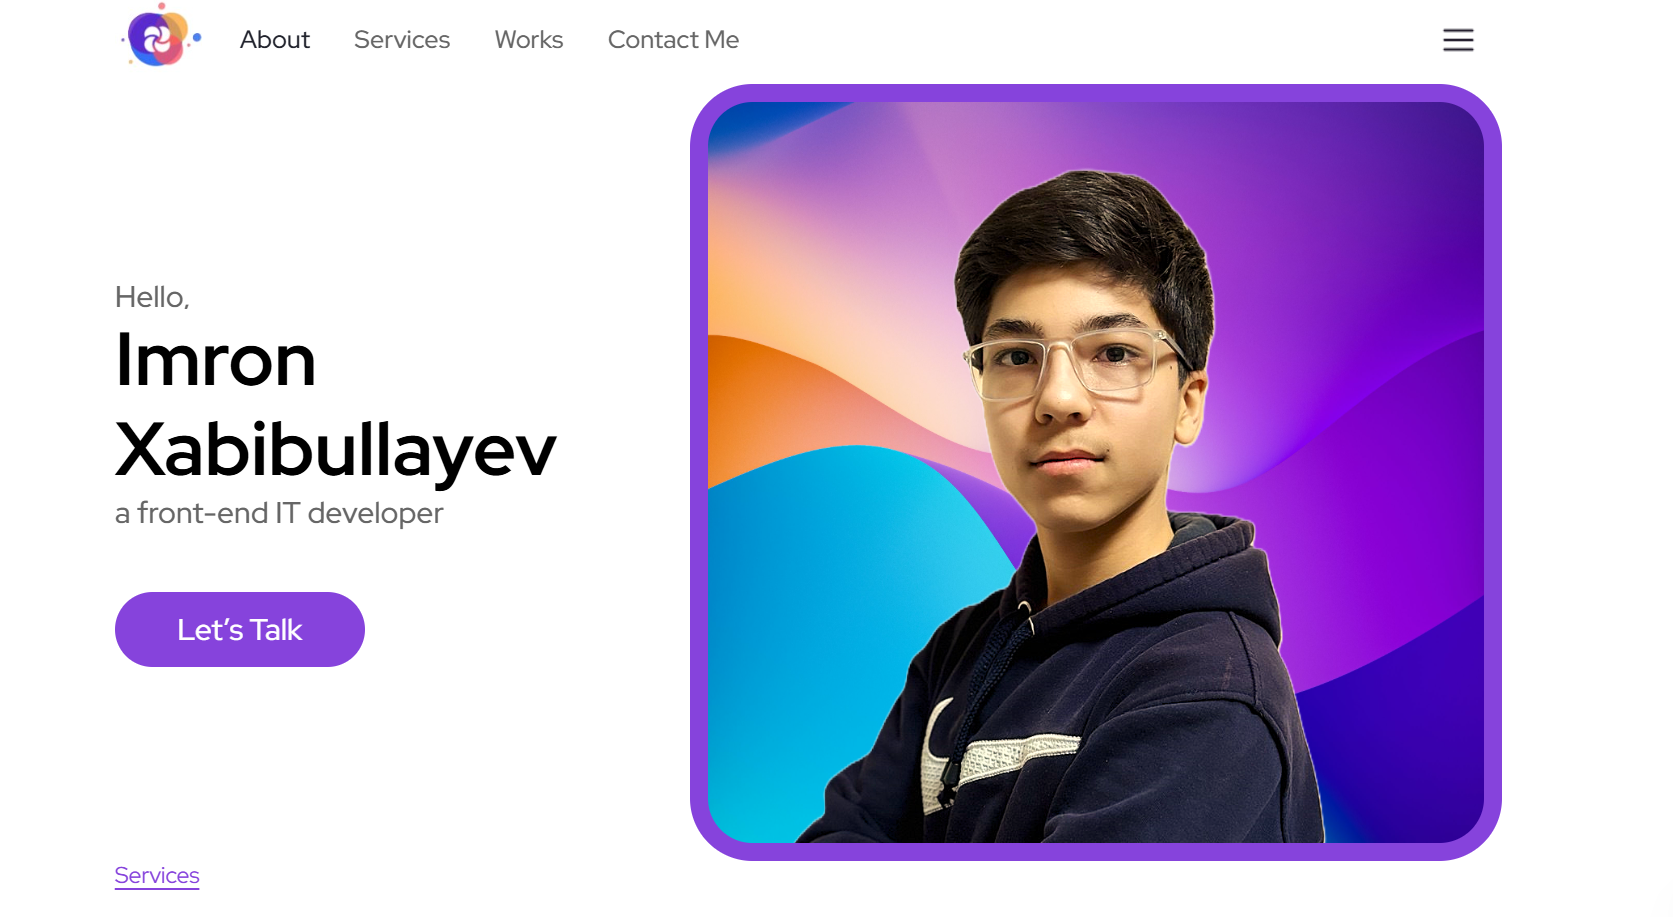
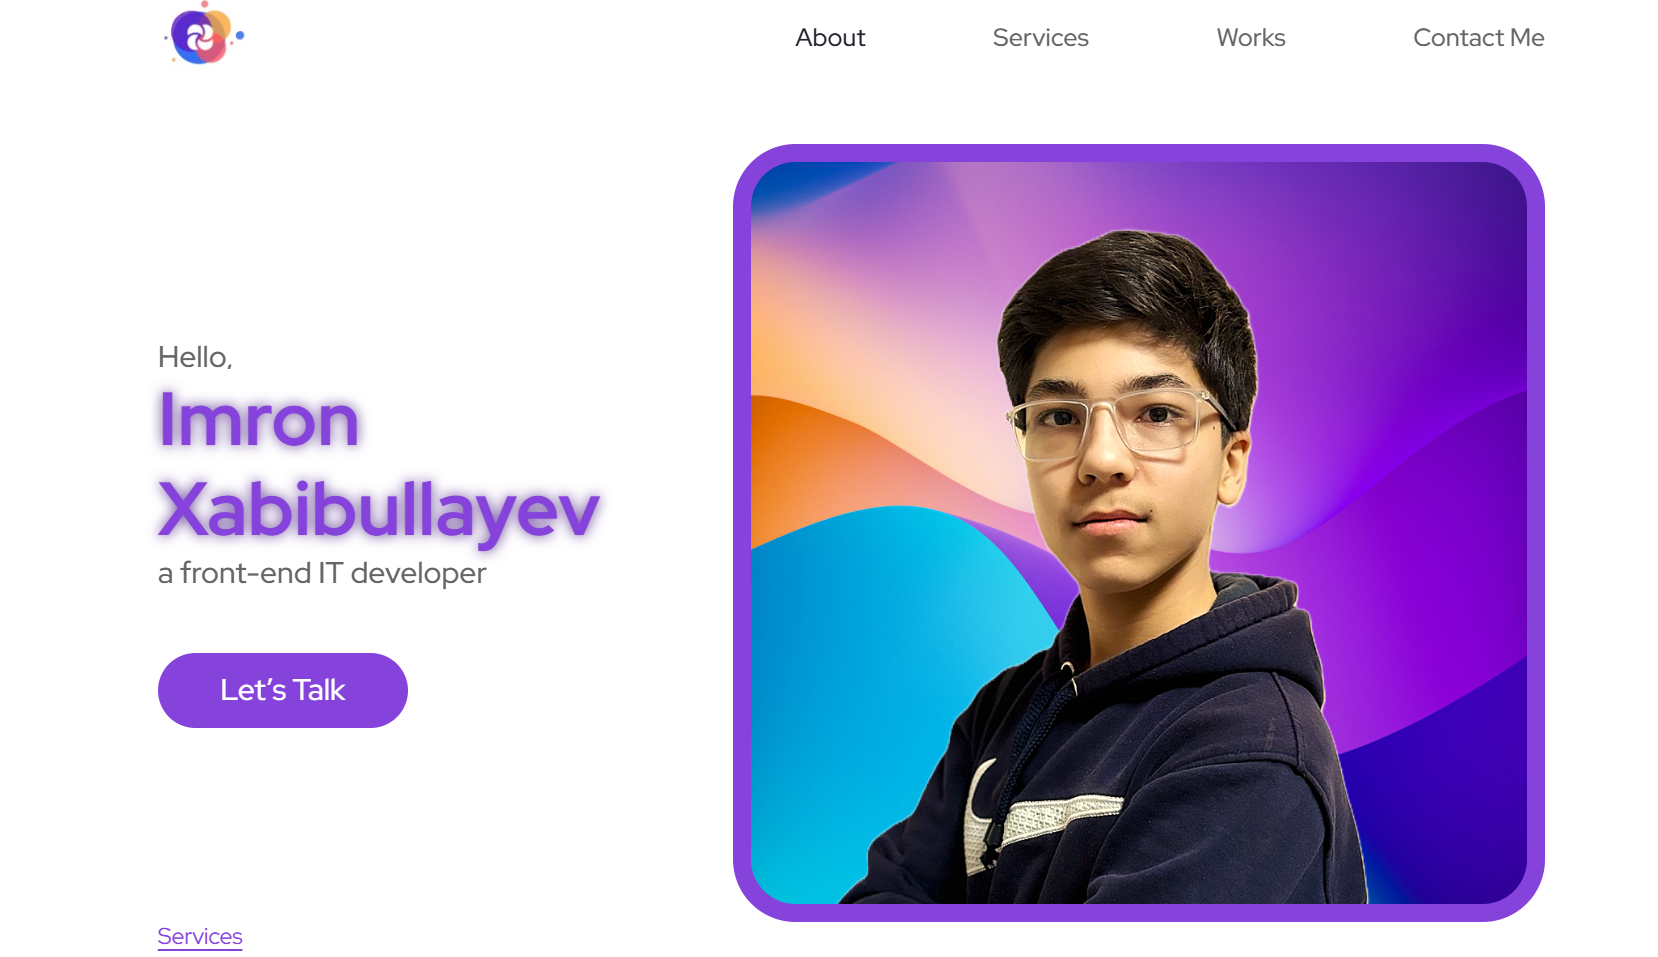
bad

diff --git a/css/main.css b/css/main.css
@@ -36,7 +36,7 @@ button {
     background-color: white;
     justify-content: space-between;
     width: 100%;
-    margin-bottom: 100px;
+    margin-bottom: 50px;
 }
 .header-mini img {
     height: 622px;
@@ -109,8 +109,6 @@ button {
     text-decoration-skip-ink: none;
     background-color: white;
     color: #8643dc;
-}
-.info-text span {
     animation: glow 1s ease-in-out infinite alternate;
     -webkit-animation: glow 1s ease-in-out infinite alternate;
 }
